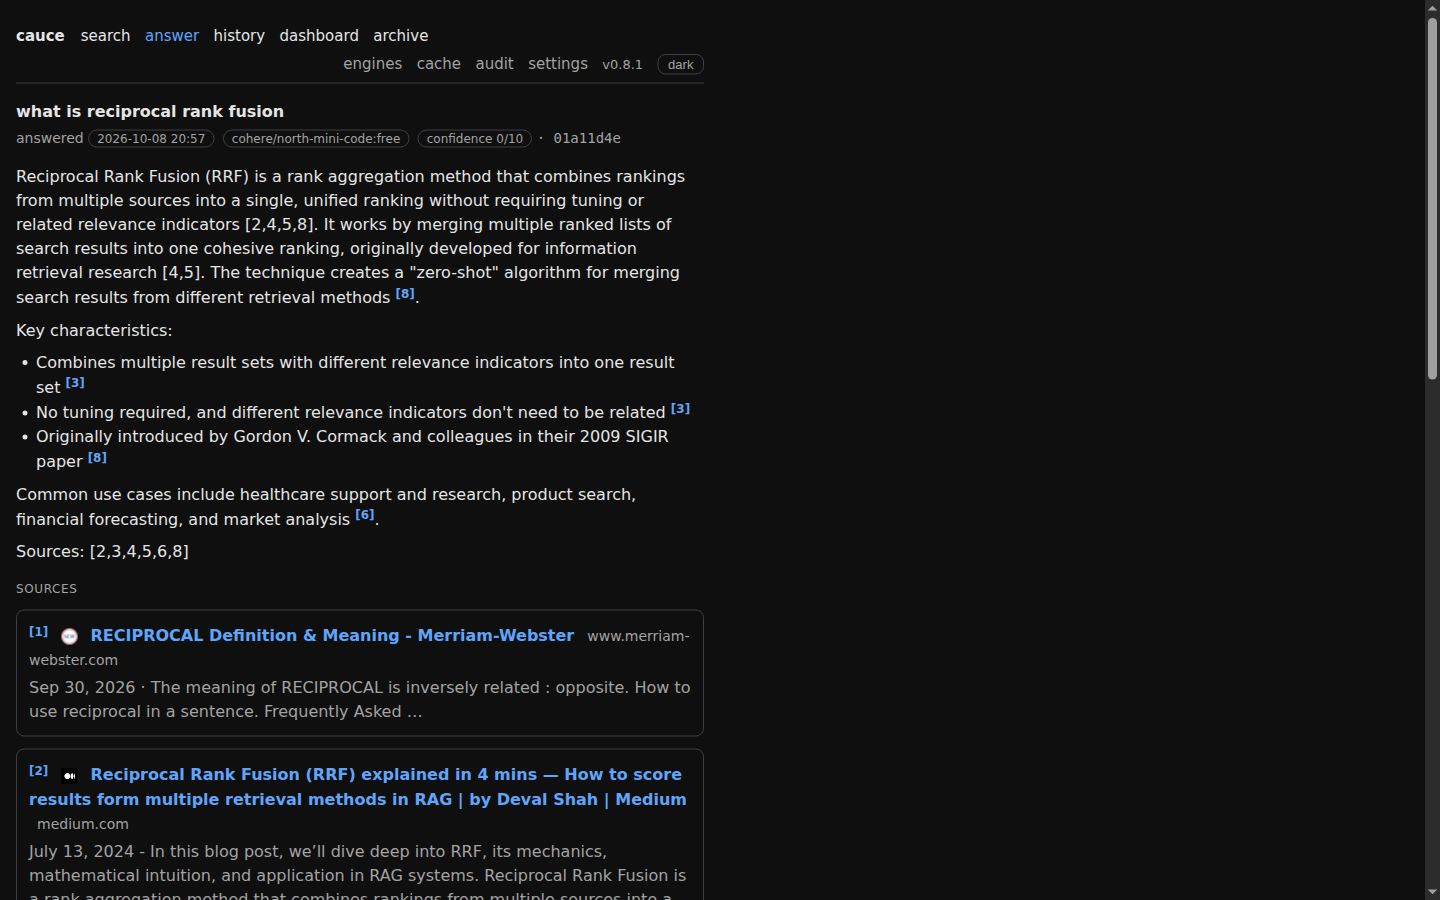
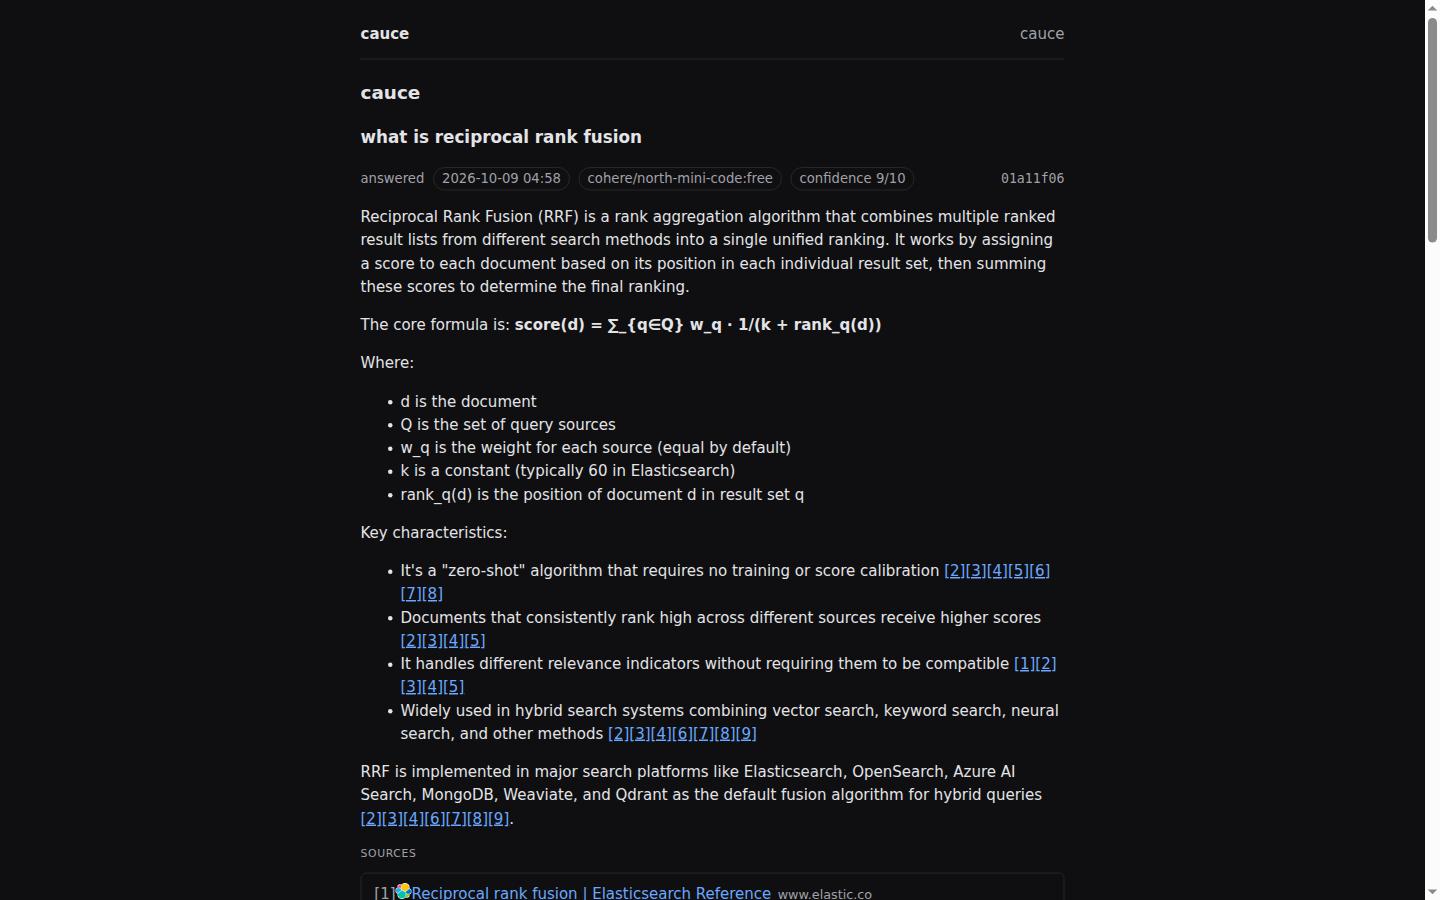
feat(site): refresh for the post-FX-06 SPA era
Rebase surfaced that #275 removed the HTMX UI — retake screenshots
against the Svelte SPA served by a main debug build (real /app/search
results + a grounded /answer/{id} render), point the hero form at
/app/search, update the Web UI card and install copy, and note that
cargo-install-from-git is the SPA-bearing path until a release tags it.

Changed region(s): [[0.0, 0.0311, 0.75, 1.0], [0.9688, 0.0, 1.0, 1.0], [0.7188, 0.0311, 0.75, 0.0622]]

diff --git a/site/src/lib/Surfaces.svelte b/site/src/lib/Surfaces.svelte
@@ -3,7 +3,8 @@
   import CodeBlock from './CodeBlock.svelte';
 
   const apiSnippet = `# the same search the UI runs, as JSON
-curl 'http://127.0.0.1:4479/api/search?q=reciprocal+rank+fusion'`;
+curl 'http://127.0.0.1:4479/api/search?q=reciprocal+rank+fusion'
+# POST /api/answer → SSE stream of the grounded answer loop`;
 
   const apiResponse = `{
   "results": [ { "url": "…", "title": "…", "engine": "brave" } ],
@@ -33,10 +34,11 @@ curl 'http://127.0.0.1:4479/api/search?q=reciprocal+rank+fusion'`;
       <div class="card">
         <h3>Web UI</h3>
         <p class="muted">
-          A server-rendered search page with progressive results over SSE, an
-          answer mode, history, and dark/light themes — on your own loopback.
+          A Svelte SPA served from the same binary — progressive results over
+          SSE, an AI answer mode, history, admin, dark/light themes — on your
+          own loopback.
         </p>
-        <p class="mono small muted">GET / · /search · /answer · /history</p>
+        <p class="mono small muted">GET /app/* · /answer/{id}</p>
       </div>
 
       <div class="card">

diff --git a/site/src/lib/Hero.svelte b/site/src/lib/Hero.svelte
@@ -5,8 +5,8 @@
 
   // Set VITE_CAUCE_ORIGIN at build time to point the demo search box at the
   // public instance (e.g. https://search.example.com). When unset the form
-  // submits to /search on whatever origin serves this page — which is a real
-  // cauce search when the binary serves the site itself.
+  // submits to /app/search on whatever origin serves this page — which is a
+  // real cauce search when the binary serves the site itself.
   const origin = (import.meta.env.VITE_CAUCE_ORIGIN ?? '').replace(/\/$/, '');
 
   let q = $state('');
@@ -20,7 +20,7 @@
       shared cache and grounded AI answers.
     </p>
 
-    <form class="search" action="{origin}/search" method="get" target="_blank" rel="noopener">
+    <form class="search" action="{origin}/app/search" method="get" target="_blank" rel="noopener">
       <input
         type="search"
         name="q"

diff --git a/site/src/lib/Install.svelte b/site/src/lib/Install.svelte
@@ -8,7 +8,7 @@ curl -LO https://github.com/espetro/cauce/releases/download/v0.8.1/\\
 tar -xzf cauce-v0.8.1-x86_64-unknown-linux-musl.tar.gz
 ./cauce serve          # UI + API + MCP on http://127.0.0.1:4479`;
 
-  const cargo = `# or build from source
+  const cargo = `# or build from source (main ships the Svelte SPA shown above)
 cargo install --locked --git https://github.com/espetro/cauce cauce-cli`;
 
   const rows = [

diff --git a/site/src/lib/Answer.svelte b/site/src/lib/Answer.svelte
@@ -19,7 +19,7 @@
         cache expires. Yours, in your history, on your disk.
       </p>
       <p class="mono small muted">
-        POST /api/answer · SSE stream · works with any OpenAI-compatible provider
+        POST /api/answer · SSE stream · OpenAI- or Anthropic-compatible providers
       </p>
     </div>
     <figure>

diff --git a/.agents/notes/2026-10-08-site-landing.md b/.agents/notes/2026-10-08-site-landing.md
@@ -19,13 +19,15 @@ Traps:
 - Script-less `.svelte` components error in svelte-check
   ("Could not find a declaration file") — keep an empty
   `<script lang="ts"></script>` in every component.
-- Screenshots in `src/assets/` are REAL captures of v0.8.1 served locally
-  (musl binary, `XDG_DATA_HOME` scratch dir, `localStorage cauce-theme` for
-  dark). Retake on each visual release; the answer shot is a real
-  `/answer/{id}` render (RRF answer log row).
-- Design tokens mirror `crates/cauce-server/assets/style.css`
-  (--bg/--fg/--accent, light default + prefers-color-scheme dark). If the app
-  theme changes, update `site/src/app.css`.
+- Screenshots in `src/assets/` are REAL captures of the post-FX-06 SPA era
+  (debug build of main, `CAUCE_DATA_DIR`/`CAUCE_CONFIG_DIR` scratch dirs,
+  playwright-core over CDP for dark emulation): `/app/search` results
+  dark+light and a real grounded `/answer/{id}` render. Retake on each visual
+  release.
+- Design tokens mirror `crates/cauce-server/web/src/spa/app/app.css`
+  (--bg/--fg/--accent, light default + prefers-color-scheme dark — same
+  values the HTMX style.css used). If the app theme changes, update
+  `site/src/app.css`.
 - `site/` is a new top-level dir not in the v3 plan's §4.1 layout — flag to
   owner; if the plan is updated, add it there.
 - No live demo exists yet: the search box and the "durable /answer/{id} link"

diff --git a/site/README.md b/site/README.md
@@ -23,6 +23,6 @@ pnpm build      # → dist/
 - Node/pnpm: Pages picks up `packageManager` from `package.json`.
 
 `VITE_CAUCE_ORIGIN` (build-time env): when set, the hero search box submits to
-`<origin>/search` — point it at the public demo instance once one exists. When
-unset, the form submits to `/search` on the same origin, which is a real cauce
-search if the binary itself serves this page.
+`<origin>/app/search` — point it at the public demo instance once one exists.
+When unset, the form submits to `/app/search` on the same origin, which is a
+real cauce search if the binary itself serves this page.
